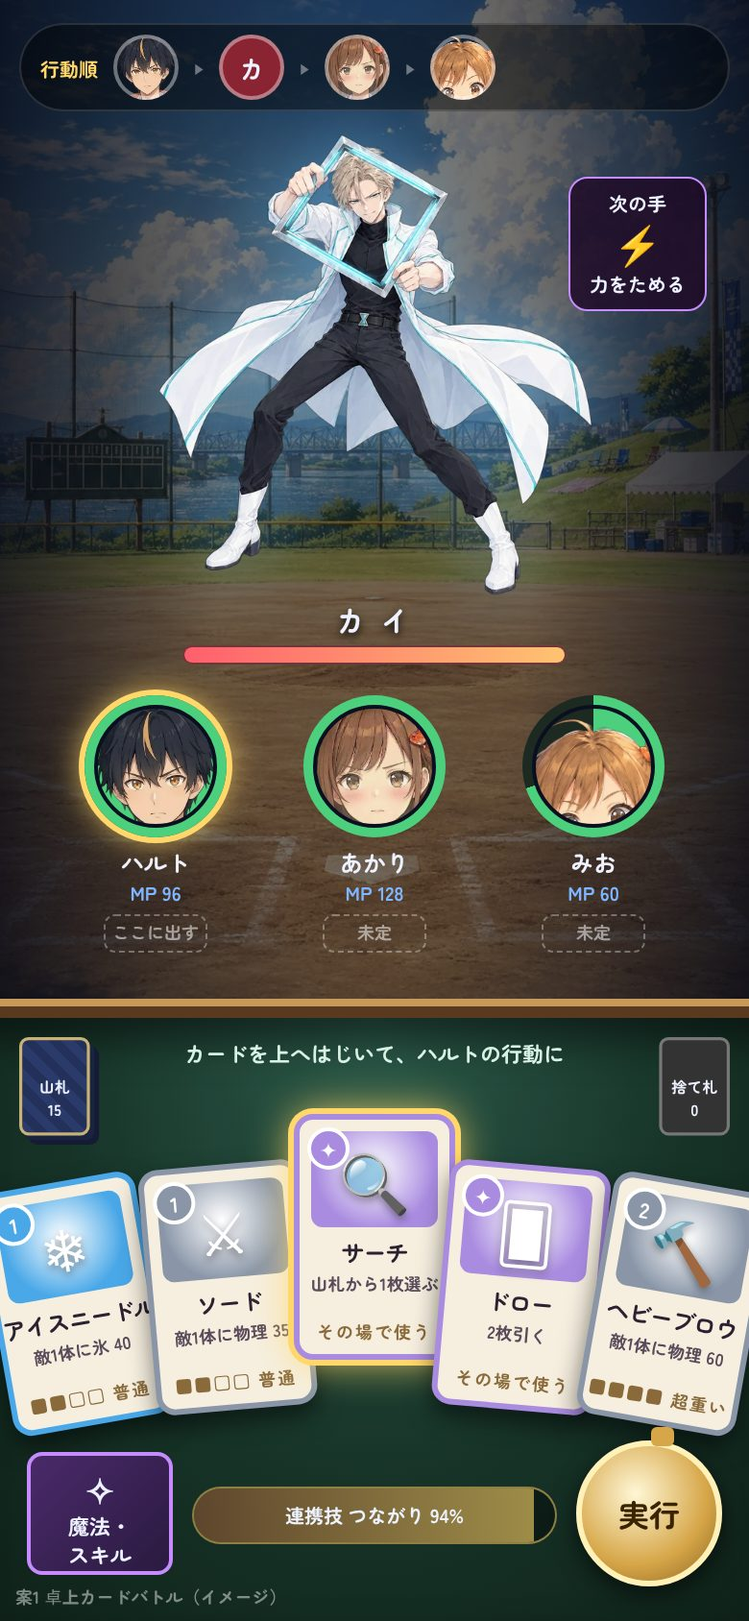
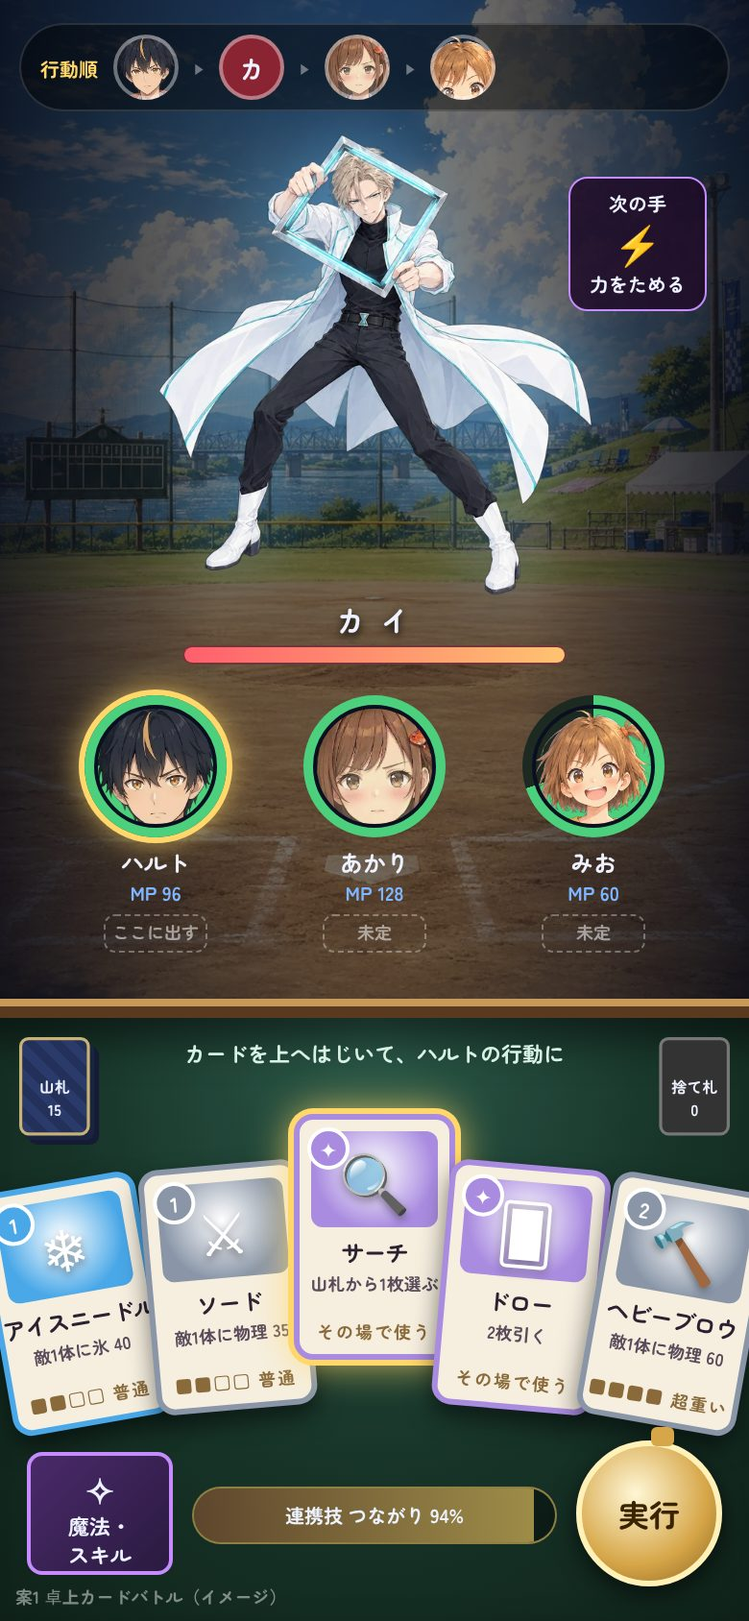
段階101：戦闘の画面のイメージに、組み合わせの2案（卓上×スナップ、カットイン×スナップ）を足す
Claude-Session: https://claude.ai/code/session_0153YXzNU9Ck5mPwNRXSpjwj

Changed region(s): [[0.7077, 0.4313, 0.8923, 0.5237]]

diff --git a/docs/sketches/battle_ui/5_table_snap.html b/docs/sketches/battle_ui/5_table_snap.html
@@ -1,0 +1,83 @@
+<!doctype html>
+<html lang="ja"><head><meta charset="utf-8"><link rel="stylesheet" href="common.css">
+<style>
+  .bg { inset: 0 0 auto 0; height: 520px; background: url('../../../public/assets/backgrounds/riverside_1998.webp') center 30% / cover; filter: sepia(.4) brightness(.55) saturate(.9); }
+  .vignette { inset: 0; background: radial-gradient(ellipse at 50% 30%, transparent 30%, rgba(5,8,20,.85) 80%); }
+  /* 敵 */
+  .enemy { left: 75px; top: 70px; width: 240px; height: 240px; background: url('../../../public/assets/enemies/kai.webp') center / contain no-repeat; filter: drop-shadow(0 0 18px rgba(120,200,255,.5)); }
+  .ename { left: 0; right: 0; top: 312px; text-align: center; font-size: 15px; letter-spacing: 2px; text-shadow: 0 2px 4px #000; }
+  .ehp { left: 95px; width: 200px; top: 336px; height: 10px; border-radius: 5px; background: #2a0d12; border: 1px solid #ff8a8a55; overflow: hidden; }
+  .ehp i { display: block; height: 100%; width: 100%; background: linear-gradient(90deg, #ff5f6d, #ffc371); }
+  .intent { right: 22px; top: 92px; width: 72px; padding: 6px 4px; border-radius: 10px; background: rgba(30,10,40,.85); border: 1px solid #c58bff; text-align: center; font-size: 10px; line-height: 1.4; }
+  .intent b { display: block; font-size: 20px; color: #ffcf6a; }
+  /* 行動順：上の砂時計の帯 */
+  .order { left: 10px; top: 12px; right: 10px; height: 46px; display: flex; gap: 8px; align-items: center; padding: 0 10px; border-radius: 23px; background: rgba(0,0,0,.45); border: 1px solid #ffffff22; }
+  .order .lab { font-size: 10px; color: #ffd76a; }
+  .chip { width: 34px; height: 34px; border-radius: 50%; background-size: 220%; background-position: 50% 12%; border: 2px solid #fff6; }
+  .chip.foe { background: #8a2433; display: grid; place-items: center; font-size: 13px; }
+  .arrow { color: #fff6; font-size: 10px; }
+  /* 仲間：丸いメダル＋HPの輪 */
+  .party { left: 0; right: 0; top: 362px; display: flex; justify-content: center; gap: 22px; }
+  .ally { width: 92px; text-align: center; }
+  .medal { width: 74px; height: 74px; margin: 0 auto; border-radius: 50%; padding: 5px; background: conic-gradient(#4cd07d 0 var(--hp), #1d2a22 var(--hp) 100%); position: relative; }
+  .medal div { width: 100%; height: 100%; border-radius: 50%; background-size: 230%; background-position: 50% 10%; border: 2px solid #0b1020; }
+  .ally.on .medal { box-shadow: 0 0 0 3px #ffd76a, 0 0 18px #ffd76a; }
+  .ally .nm { font-size: 12px; margin-top: 4px; }
+  .ally .mp { font-size: 10px; color: #7fb6ff; }
+  .ally .slot { margin: 4px auto 0; width: 54px; height: 20px; border-radius: 6px; border: 1px dashed #ffffff55; font-size: 9px; color: #fff8; line-height: 18px; }
+  /* 卓（下半分） */
+  .table { left: -20px; right: -20px; top: 520px; bottom: 0; background:
+      repeating-linear-gradient(90deg, #6a4428 0 2px, transparent 2px 46px),
+      linear-gradient(180deg, #8a5a34 0%, #6e4526 60%, #553419 100%); border-top: 10px solid #3a2414; box-shadow: inset 0 12px 20px rgba(0,0,0,.5); }
+  .table::before { content: ''; position: absolute; left: 0; right: 0; top: -10px; height: 4px; background: #c79a5a; }
+  .pile { width: 46px; height: 64px; border-radius: 3px; background: #3a2a4a; border: 2px solid #c9b27a; box-shadow: 3px 3px 0 #f3ead8, 6px 6px 0 #e6dcc8; font-size: 10px; text-align: center; padding-top: 22px; }
+  .deck { left: 10px; top: 540px; transform: scale(.8); transform-origin: left top; }
+  .disc { right: 10px; top: 540px; transform: scale(.8); transform-origin: right top; background: #333; border-color: #777; box-shadow: none; }
+  .hint { left: 0; right: 0; top: 540px; text-align: center; font-family: 'Hand', 'IPAGothic'; font-size: 14px; color: #ffe6c0; }
+  /* 手札：扇形 */
+  .hand { left: 0; right: 0; top: 586px; height: 170px; }
+  .card { position: absolute; width: 84px; height: 132px; top: 14px; transform-origin: 50% 100%; background: #fffdf6; padding: 5px 5px 0; box-shadow: 0 6px 12px rgba(0,0,0,.55); color: #2a2230; }
+  .card .ph { height: 74px; background-size: cover; background-position: center; position: relative; }
+  .card .gem { position: absolute; right: -8px; top: -8px; width: 26px; height: 26px; border-radius: 50%; background: var(--c); color: #fff; font-size: 11px; font-weight: bold; display: grid; place-items: center; border: 2px solid #fff; box-shadow: 0 1px 3px rgba(0,0,0,.4); }
+  .card .nm { text-align: center; font-family: 'Hand', 'IPAGothic'; font-size: 13px; white-space: nowrap; letter-spacing: -0.5px; margin-top: 4px; }
+  .card .tx { text-align: center; font-size: 8px; color: #6a5a4a; margin-top: 1px; }
+  .card .wt { position: absolute; bottom: 4px; left: 0; right: 0; text-align: center; font-size: 8px; color: #a07a4a; letter-spacing: 1px; }
+  .card.sel { top: -8px; box-shadow: 0 0 0 3px #ffd76a, 0 0 22px #ffd76a; }
+  .card .tape { position: absolute; width: 40px; height: 13px; left: 22px; top: -8px; background: rgba(255,200,120,.75); transform: rotate(-5deg); }
+  /* ボタン */
+  .watch { right: 14px; bottom: 18px; width: 76px; height: 76px; border-radius: 50%; background: radial-gradient(circle at 40% 35%, #fff7d6, #d6a648 60%, #8a6420); border: 3px solid #fff1b8; display: grid; place-items: center; font-size: 13px; font-weight: bold; color: #3a2400; box-shadow: 0 4px 12px rgba(0,0,0,.6); }
+  .watch::before { content: ''; position: absolute; top: -10px; left: 36px; width: 12px; height: 10px; border-radius: 3px; background: #d6a648; }
+  .book { left: 14px; bottom: 24px; width: 76px; height: 64px; border-radius: 8px; background: linear-gradient(135deg, #4a2a6a, #2a1a40); border: 2px solid #c58bff; font-size: 11px; text-align: center; padding-top: 6px; line-height: 1.3; }
+  .book b { font-size: 18px; display: block; }
+  .link { left: 100px; right: 100px; bottom: 40px; height: 30px; border-radius: 15px; background: #0006; border: 1px solid #ffd76a88; font-size: 10px; text-align: center; line-height: 28px; overflow: hidden; }
+  .link i { position: absolute; left: 0; top: 0; bottom: 0; width: 94%; background: linear-gradient(90deg, #ff9a5a55, #ffd76a99); }
+  .link span { position: relative; }
+  .tag { left: 8px; bottom: 6px; font-size: 9px; color: #fff7; }
+</style></head><body>
+<div class="abs bg"></div><div class="abs vignette"></div>
+<div class="abs order"><span class="lab">行動順</span><div class="chip" style="background-image:url('../../../public/assets/portraits/hero_determined.webp')"></div><span class="arrow">▶</span><div class="chip foe">カ</div><span class="arrow">▶</span><div class="chip" style="background-image:url('../../../public/assets/portraits/akari_serious.webp')"></div><span class="arrow">▶</span><div class="chip" style="background-image:url('../../../public/assets/portraits/mio_smile.webp')"></div></div>
+<div class="abs enemy"></div>
+<div class="abs intent">次の手<b>⚡</b>力をためる</div>
+<div class="abs ename">カ イ</div>
+<div class="abs ehp"><i></i></div>
+<div class="abs party">
+  <div class="ally on"><div class="medal" style="--hp:100%"><div style="background-image:url('../../../public/assets/portraits/hero_determined.webp')"></div></div><div class="nm">ハルト</div><div class="mp">MP 96</div><div class="slot">ここに出す</div></div>
+  <div class="ally"><div class="medal" style="--hp:100%"><div style="background-image:url('../../../public/assets/portraits/akari_serious.webp')"></div></div><div class="nm">あかり</div><div class="mp">MP 128</div><div class="slot">未定</div></div>
+  <div class="ally"><div class="medal" style="--hp:70%"><div style="background-image:url('../../../public/assets/portraits/mio_smile.webp');background-size:125%;background-position:50% 14%"></div></div><div class="nm">みお</div><div class="mp">MP 60</div><div class="slot">未定</div></div>
+</div>
+<div class="abs table"></div>
+<div class="abs pile deck">山札<br>15</div>
+<div class="abs pile disc">捨て札<br>0</div>
+<div class="abs hint">カードを上へはじいて、ハルトの行動に</div>
+<div class="abs hand">
+  <div class="card" style="--c:#4aa8e8;left:6px;transform:rotate(-10deg) translateY(10px)"><div class="ph" style="background-image:url('../../../public/assets/cg/white_city.webp')"><span class="gem">氷</span></div><div class="nm">アイスニードル</div><div class="tx">敵1体に氷 40</div><div class="wt">■■□□ 普通</div></div>
+  <div class="card" style="--c:#8a96a8;left:82px;transform:rotate(-5deg) translateY(2px)"><div class="ph" style="background-image:url('../../../public/assets/cg/cut_ground.webp')"><span class="gem">物</span></div><div class="nm">ソード</div><div class="tx">敵1体に物理 35</div><div class="wt">■■□□ 普通</div></div>
+  <div class="card sel" style="--c:#a98be0;left:153px;transform:rotate(0deg)"><span class="tape"></span><div class="ph" style="background-image:url('../../../public/assets/cg/photo_goldfish.webp')"><span class="gem">✦</span></div><div class="nm">サーチ</div><div class="tx">山札から1枚選ぶ</div><div class="wt">その場で使う</div></div>
+  <div class="card" style="--c:#a98be0;left:224px;transform:rotate(5deg) translateY(2px)"><div class="ph" style="background-image:url('../../../public/assets/cg/mio_cards.webp')"><span class="gem">✦</span></div><div class="nm">ドロー</div><div class="tx">2枚引く</div><div class="wt">その場で使う</div></div>
+  <div class="card" style="--c:#8a96a8;left:300px;transform:rotate(10deg) translateY(10px)"><div class="ph" style="background-image:url('../../../public/assets/cg/awaken_weapons.webp')"><span class="gem">物</span></div><div class="nm">ヘビーブロウ</div><div class="tx">敵1体に物理 60</div><div class="wt">■■■■ 超重い</div></div>
+</div>
+<div class="abs book"><b>✧</b>魔法・<br>スキル</div>
+<div class="abs link"><i></i><span>連携技 つながり 94%</span></div>
+<div class="abs watch">シャッター</div>
+<div class="abs tag">案1＋案4 卓上×スナップ（イメージ）</div>
+</body></html>

diff --git a/docs/sketches/battle_ui/6_cutin_snap.html b/docs/sketches/battle_ui/6_cutin_snap.html
@@ -1,0 +1,66 @@
+<!doctype html>
+<html lang="ja"><head><meta charset="utf-8"><link rel="stylesheet" href="common.css">
+<style>
+  body { background: #120612; }
+  .bg { inset: 0; background: url('../../../public/assets/backgrounds/riverside_1998.webp') center 20% / cover; filter: brightness(.35) saturate(.6) hue-rotate(-20deg); }
+  .slash { left: -60px; right: -60px; top: 350px; height: 150px; background: linear-gradient(90deg, #d7263d, #ff6b35); transform: rotate(-12deg); opacity: .9; box-shadow: 0 0 0 6px #000, 0 0 0 9px #fff; }
+  .slash2 { left: -60px; right: -60px; top: 490px; height: 20px; background: #fff; transform: rotate(-12deg); }
+  .enemy { left: 120px; top: 40px; width: 250px; height: 250px; background: url('../../../public/assets/enemies/kai.webp') center / contain no-repeat; filter: drop-shadow(0 0 12px #ff2d55); }
+  .ename { right: 16px; top: 250px; font-size: 30px; font-style: italic; font-weight: 900; letter-spacing: 4px; color: #fff; text-shadow: 3px 3px 0 #d7263d; transform: skewX(-12deg); }
+  .ehp { right: 16px; top: 294px; width: 190px; height: 12px; background: #000; transform: skewX(-20deg); border: 2px solid #fff; }
+  .ehp i { display: block; height: 100%; width: 100%; background: #ff2d55; }
+  /* 行動順：左上の斜めの札 */
+  .order { left: 0; top: 16px; display: flex; flex-direction: column; gap: 6px; }
+  .order div { width: 120px; height: 26px; transform: skewX(-15deg); background: #000c; border-left: 6px solid var(--c); font-size: 12px; line-height: 26px; padding-left: 14px; font-weight: bold; }
+  .order div:first-child { width: 140px; background: #fff; color: #000; }
+  /* 立ち絵のカットイン */
+  .hero { left: -30px; top: 372px; width: 300px; height: 450px; background: url('../../../public/assets/portraits/hero_determined.webp') center top / cover; -webkit-mask-image: linear-gradient(180deg, #000 70%, transparent); }
+  .who { left: 150px; top: 380px; font-size: 40px; font-weight: 900; font-style: italic; color: #fff; text-shadow: 4px 4px 0 #000; transform: rotate(-12deg); }
+  .whoSub { left: 160px; top: 432px; font-size: 12px; background: #000; padding: 2px 10px; transform: rotate(-12deg); }
+  /* 仲間の HP：右の斜めの帯 */
+  .party { right: 0; top: 500px; display: flex; flex-direction: column; gap: 6px; align-items: flex-end; }
+  .pa { width: 168px; height: 34px; transform: skewX(-15deg); background: #000d; border-right: 6px solid var(--c); padding: 3px 16px 0 12px; font-size: 11px; }
+  .pa b { font-size: 13px; }
+  .pa .bar { height: 5px; margin-top: 3px; background: #333; }
+  .pa .bar i { display: block; height: 100%; background: #4cd07d; width: var(--hp); }
+  .pa.on { background: #fff; color: #000; }
+  /* 手札：インスタント写真（少し傾けて重ねる） */
+  .hand { right: 6px; top: 612px; width: 380px; height: 160px; }
+  .card { position: absolute; bottom: 4px; width: 74px; height: 122px; background: #fffdf6; padding: 5px 5px 0; box-shadow: 0 5px 10px rgba(0,0,0,.6); transform: rotate(var(--r)); color: #222; }
+  .card .ph { height: 68px; background-size: cover; background-position: center; position: relative; }
+  .card .el { position: absolute; right: -8px; top: -8px; width: 26px; height: 26px; border-radius: 50%; background: var(--c); color: #fff; font-size: 11px; font-weight: bold; display: grid; place-items: center; border: 2px solid #fff; box-shadow: 0 1px 3px rgba(0,0,0,.5); }
+  .card .nm { font-family: 'Hand', 'IPAGothic'; font-size: 12px; text-align: center; margin-top: 4px; line-height: 1.15; }
+  .card .wt { position: absolute; bottom: 3px; left: 0; right: 0; font-size: 8px; text-align: center; color: #8a7a6a; }
+  .card.sel { bottom: 22px; box-shadow: 0 0 0 3px #ffd700, 0 8px 16px rgba(0,0,0,.6); }
+  .card .tape { position: absolute; width: 38px; height: 12px; left: 18px; top: -7px; background: rgba(255,90,90,.7); transform: rotate(-6deg); }
+  /* コマンド：下の斜めの帯 */
+  .cmd { left: 0; right: 0; bottom: 0; height: 64px; background: #000; display: flex; align-items: center; gap: 6px; padding: 0 10px; border-top: 3px solid #fff; }
+  .btn { flex: 1; height: 44px; transform: skewX(-15deg); background: #222; border: 2px solid #fff; font-size: 13px; font-weight: bold; display: grid; place-items: center; }
+  .btn.go { flex: 1.4; background: #d7263d; font-size: 18px; }
+  .btn.link { background: linear-gradient(90deg, #ffd700 94%, #333 94%); color: #000; }
+  .tag { right: 8px; top: 4px; font-size: 9px; color: #fff8; }
+</style></head><body>
+<div class="abs bg"></div>
+<div class="abs slash"></div><div class="abs slash2"></div>
+<div class="abs enemy"></div>
+<div class="abs ename">KAI カイ</div>
+<div class="abs ehp"><i></i></div>
+<div class="abs order"><div style="--c:#4aa8e8">1 ハルト</div><div style="--c:#ff2d55">2 カイ</div><div style="--c:#ff8fb1">3 あかり</div><div style="--c:#ffb347">4 みお</div></div>
+<div class="abs hero"></div>
+<div class="abs who">ハルト</div>
+<div class="abs whoSub">行動を選べ ─ 敵の弱点：？</div>
+<div class="abs party">
+  <div class="pa on" style="--c:#4aa8e8;--hp:100%"><b>ハルト</b>　HP 312　MP 96<div class="bar"><i></i></div></div>
+  <div class="pa" style="--c:#ff8fb1;--hp:100%"><b>あかり</b>　HP 284　MP 128<div class="bar"><i></i></div></div>
+  <div class="pa" style="--c:#ffb347;--hp:70%"><b>みお</b>　HP 140　MP 60<div class="bar"><i></i></div></div>
+</div>
+<div class="abs hand">
+  <div class="card" style="--c:#4aa8e8;--r:-6deg;left:8px"><div class="ph" style="background-image:url('../../../public/assets/cg/white_city.webp')"><span class="el">氷</span></div><div class="nm">アイス<br>ニードル</div><div class="wt">ふつう</div></div>
+  <div class="card" style="--c:#8a96a8;--r:3deg;left:82px"><div class="ph" style="background-image:url('../../../public/assets/cg/cut_ground.webp')"><span class="el">物</span></div><div class="nm">ソード</div><div class="wt">ふつう</div></div>
+  <div class="card sel" style="--c:#a98be0;--r:-2deg;left:156px"><span class="tape"></span><div class="ph" style="background-image:url('../../../public/assets/cg/photo_goldfish.webp')"><span class="el">✦</span></div><div class="nm">サーチ</div><div class="wt">その場で使う</div></div>
+  <div class="card" style="--c:#a98be0;--r:4deg;left:230px"><div class="ph" style="background-image:url('../../../public/assets/cg/mio_cards.webp')"><span class="el">✦</span></div><div class="nm">ドロー</div><div class="wt">その場で使う</div></div>
+  <div class="card" style="--c:#8a96a8;--r:-4deg;left:302px"><div class="ph" style="background-image:url('../../../public/assets/cg/awaken_weapons.webp')"><span class="el">物</span></div><div class="nm">ヘビー<br>ブロウ</div><div class="wt">とても重い</div></div>
+</div>
+<div class="abs tag">案2＋案4 カットイン×スナップ（イメージ）</div>
+<div class="abs cmd"><div class="btn">魔法・スキル</div><div class="btn link">連携技 94%</div><div class="btn go">シャッター！</div></div>
+</body></html>

diff --git a/docs/sketches/battle_ui/1_tabletop.html b/docs/sketches/battle_ui/1_tabletop.html
@@ -61,7 +61,7 @@
 <div class="abs party">
   <div class="ally on"><div class="medal" style="--hp:100%"><div style="background-image:url('../../../public/assets/portraits/hero_determined.webp')"></div></div><div class="nm">ハルト</div><div class="mp">MP 96</div><div class="slot">ここに出す</div></div>
   <div class="ally"><div class="medal" style="--hp:100%"><div style="background-image:url('../../../public/assets/portraits/akari_serious.webp')"></div></div><div class="nm">あかり</div><div class="mp">MP 128</div><div class="slot">未定</div></div>
-  <div class="ally"><div class="medal" style="--hp:70%"><div style="background-image:url('../../../public/assets/portraits/mio_smile.webp');background-size:200%;background-position:48% 6%"></div></div><div class="nm">みお</div><div class="mp">MP 60</div><div class="slot">未定</div></div>
+  <div class="ally"><div class="medal" style="--hp:70%"><div style="background-image:url('../../../public/assets/portraits/mio_smile.webp');background-size:125%;background-position:50% 14%"></div></div><div class="nm">みお</div><div class="mp">MP 60</div><div class="slot">未定</div></div>
 </div>
 <div class="abs table"></div>
 <div class="abs pile deck">山札<br>15</div>

diff --git a/docs/milestones/M3.md b/docs/milestones/M3.md
@@ -49,7 +49,7 @@
 | 100. 育成の「おすすめ」 | 開発者が「次の段階進めてください」と言った（2026-10-22）。レビューの E1。取り消せる操作は「おまかせ」で組み、取り消せない操作（星を開ける・素材を吸わせる）は「おすすめ」の印を出すだけにする（勝手に星の砂や素材を使わない）。選び方はすべて `src/core/recommend.ts`（自動対戦の `src/sim` も同じ関数を使う。育ち具合の見本が前と同じになることを確かめた）。数値は `src/data`。①アルバム：「おまかせ」で、持っているスナップから20枚を決まった順（`ALBUM_RECOMMEND`）で組む。②星図：今の仲間の「おすすめの道」を金色の点線で光らせ、次の星に「おすすめ」。まだ開けていない星を、価値（魔法・スキル＞大きな能力値＞能力値、自分の星座なら1.5倍）÷そこまでの星の砂で比べる。説明に「おすすめ：○○（金の道・あと n pt）」と「おすすめを選ぶ」。③ムーブメント：「おまかせ」（2回押す）で、並びの仲間の盤のギアを、狂いなし・効果ギアはブリッジに乗せて並べ直す。④武器：一番近い進化先の足りない能力値を上げる素材に★、一番よい素材は金の枠で先頭に。これから使う進化の鍵は、要る数より多く持っている分だけ勧める（前の★は鍵の素材にも付いていた）。説明の窓（星図・ムーブメント・アルバム）にも、おすすめの使い方を書き足した。減らせる仕組みと、1章で触る仕組みの見直しは、`docs/milestones/M3_review.md` の E1 に表で書いた（減らす候補は、時分解・欠片を枠が埋まるまで出さない案と、ギアの傾向を外す案。開発者の確認待ち） | スマホで：探索のチェックポイントの星図で、金色の点線の道と「おすすめ」の字、説明の「おすすめを選ぶ」を見る。アルバムの「おまかせ」、ムーブメントの「おまかせ」（2回押す）、武器の素材の★と金の枠を見る | 作った（確認待ち） |
 | 100b. 育成のおすすめの手直しと、盤の伸び方 | 開発者が段階100 を見て決めた（2026-10-22）。①武器の素材は★と金の枠だけにし、「★おすすめ：○○」の文は出さない（元の短い案内に戻す）。②ムーブメントの「おまかせ」は外す（並べ方を考えるのが遊びの中心のため）。説明の窓の「おまかせ」の一文も消す。並べる関数は自動対戦で使うので残す。③進化で盤が伸びる形を直す。今はどちらの型も1マス幅の「しっぽ」（ブリッジの下に縦、右下から横）で、伸びた所にはまっすぐなギアしか入らない。増えるのは今と同じ1回2マスのまま、ブリッジが伸びる型は盤のすぐ下の新しい行を、ブリッジの真下から近い順に2マスずつ埋め、盤が広がる型は盤のすぐ右の新しい列を上から2マスずつ埋める（行・列がそろうと次の行・列へ）。今のセーブで消えるマスにはまっていたギアは、読む時に外れて一覧に戻る（今の作りのまま）。測り直した（ぬしの勝率は盤の形の影響を受けない。`docs/design/battle.md` の 13.） | スマホで：育ち具合「ふつう」で 2-2 へ飛び、ハルトのムーブメントの盤が、下に1行ほど広がった四角に近い形になっているかを見る。武器の素材に★と金の枠だけが出て、下の文が元の案内になっているかを見る | 作った（確認待ち） |
 | 100c. 時分解と記憶の欠片を、枠が埋まるまで出さない | 開発者が段階100 の見直しの「減らす候補1」を「提案通りで」と決めた（2026-10-23）。開発者が「次の段階進めてください」と言った。1章の終わりでも吸わせ枠に空きがあり、時分解を使う理由がないため。武器の画面の「時分解」のボタンは、どれかの武器の吸わせ枠が初めていっぱいになった時か、交換所を初めて開いた時の、早い方まで出さない（一度出たら、物語の変数 `武器:時分解` に覚えて、ずっと出す。レベルが上がって枠が空いても隠さない）。交換所のきっかけは開発者の指摘で足した（2章の初めから開ける交換所の会話が時分解を知っている前提だった。素材をあまり吸わせない人は時分解がいつまでも出ず、欠片で払う交換所が使えなかった）。ペトラの最初の会話は、あかりが欠片の手に入れ方を聞き、ペトラが時分解を教える形に書き換えた。「欠片」のタブは、時分解が出るまでは、欠片を持っている時だけ出す（時間を返した時にもらう欠片が見えなくならないように）。素材の長押しの「時分解すると」の行も同じ。説明の窓「武器」から時分解の一文を外し、時分解が出た時に新しい説明「時分解と記憶の欠片」を出す | スマホで：はじめから進め、1章の武器の画面に「時分解」のボタンがないのを見る。デバッグで育ち具合「ふつう」の 3-1 へ飛び、武器の画面に「時分解」と説明の窓が出るのを見る。2章の昼に時計屋の奥（レストピア）の交換所を初めて開くと、ペトラが時分解を教え、説明の窓が出るのを見る | 作った（確認待ち） |
-| 101. 戦闘の画面の見本（3案と、見直しのイメージ4案） | 開発者が「次の段階進めてください」と言った（2026-10-23）。レビューの F2。見本は本物の戦闘の画面に切り替えのしかけを入れて撮る（`?debug=1&battleUi=a`・`b`・`c`。付けなければ今のまま。スマホでも触って比べられる）。どの案も、サポートの札の「行動枠なし」を「その場で使う」に替える（「行動を使わない」は札の幅に収まらなかった。計画の途中でその場で使う札なので）。**案A「言葉と字」**：並びは今のまま。手札の名前の字を大きく（12→14）、コンボの帯は、そろいそうなコンボがない時は字を出さず細い線だけにする。**案B「使える時だけ出す」**：コンボの帯は、そろいそうな時だけ出す（ない時は、その分だけ手札を高くする）。バトンタッチのボタンは追加行動の時だけ出し、ふだんは「魔法・スキル」「連携技」「その他」の3つ。手札の名前の字は14。**案C「手札を主役に」**：案B に加え、下のボタンの段を低く（110→70）して、空いた分だけ手札を大きくする（名前の字は16）。撮ったのはカイ戦（2-3）の、計画の始めと手札を1枚選んだ所。**見直しのイメージ（2026-10-23 追加）**：開発者が「今の画面は味気なく、カードゲーム×RPG の感じがない。作り込まなくていいので、抜本的な見直しをイメージ画像で比べたい」と言った。本物の立ち絵・敵・背景・一枚絵を使った HTML のイメージを4案作った（`docs/sketches/battle_ui/`。`node docs/sketches/battle_ui/shoot.mjs` で撮り直す。ゲームの中では使わない）。①卓上カードバトル（緑の卓に扇形の手札、枠と絵柄のあるカード、懐中時計の「実行」）、②カットイン（行動中の仲間の立ち絵を大きく、斜めの帯）、③計画表（敵と仲間を横向きに並べ、「時の帯」の枠に行動順でカードをはめる。実行は「時を進める」）、④スナップ（札を思い出の写真に。インスタント写真・手書きの字・付せんのボタン、実行は「シャッター」）。開発者が選んだ案を段階102 で作り、ほかの案のしかけは外す | スマホで：`?debug=1&battleUi=a`（b・c）を付けて開き、デバッグで 2-3 のカイ戦へ飛んで、3案を見比べる | 見本を撮った（開発者が選ぶのを待つ） |
+| 101. 戦闘の画面の見本（3案と、見直しのイメージ4案） | 開発者が「次の段階進めてください」と言った（2026-10-23）。レビューの F2。見本は本物の戦闘の画面に切り替えのしかけを入れて撮る（`?debug=1&battleUi=a`・`b`・`c`。付けなければ今のまま。スマホでも触って比べられる）。どの案も、サポートの札の「行動枠なし」を「その場で使う」に替える（「行動を使わない」は札の幅に収まらなかった。計画の途中でその場で使う札なので）。**案A「言葉と字」**：並びは今のまま。手札の名前の字を大きく（12→14）、コンボの帯は、そろいそうなコンボがない時は字を出さず細い線だけにする。**案B「使える時だけ出す」**：コンボの帯は、そろいそうな時だけ出す（ない時は、その分だけ手札を高くする）。バトンタッチのボタンは追加行動の時だけ出し、ふだんは「魔法・スキル」「連携技」「その他」の3つ。手札の名前の字は14。**案C「手札を主役に」**：案B に加え、下のボタンの段を低く（110→70）して、空いた分だけ手札を大きくする（名前の字は16）。撮ったのはカイ戦（2-3）の、計画の始めと手札を1枚選んだ所。**見直しのイメージ（2026-10-23 追加）**：開発者が「今の画面は味気なく、カードゲーム×RPG の感じがない。作り込まなくていいので、抜本的な見直しをイメージ画像で比べたい」と言った。本物の立ち絵・敵・背景・一枚絵を使った HTML のイメージを4案作った（`docs/sketches/battle_ui/`。`node docs/sketches/battle_ui/shoot.mjs` で撮り直す。ゲームの中では使わない）。①卓上カードバトル（緑の卓に扇形の手札、枠と絵柄のあるカード、懐中時計の「実行」）、②カットイン（行動中の仲間の立ち絵を大きく、斜めの帯）、③計画表（敵と仲間を横向きに並べ、「時の帯」の枠に行動順でカードをはめる。実行は「時を進める」）、④スナップ（札を思い出の写真に。インスタント写真・手書きの字・付せんのボタン、実行は「シャッター」）。開発者が「いい感じ」と言い、組み合わせの⑤卓上×スナップ（案1 の卓と扇の手札に、写真のカード。卓は木の机）と⑥カットイン×スナップ（案2 に写真のカード）も作った。開発者が選んだ案を段階102 で作り、ほかの案のしかけは外す | スマホで：`?debug=1&battleUi=a`（b・c）を付けて開き、デバッグで 2-3 のカイ戦へ飛んで、3案を見比べる | 見本を撮った（開発者が選ぶのを待つ） |
 | 102. 戦闘の画面を選んだ案で作る（たたき台） | 段階101 で開発者が選んだ案を、いつもの画面にする。見本の切り替えのしかけは外す | ― | まだ |
 | 103. 2章の手直し：取り返すまでを1日延ばす（たたき台） | レビューの A4。19日目を「手が出せない日」に、取り返すのは20日目、こうじが試合へ行くのは21日目。3章の日の数字も1つずつずれる。セーブの引き継ぎ（`RENAMED_EVENTS`）とデバッグの飛び先も合わせる | ― | まだ |
 | 104. 絵のない部屋の仮の見た目（たたき台） | レビューの F1。文字の地図に、時代の色と小物を重ねる（`docs/ART.md` の 5-5b） | ― | まだ |
